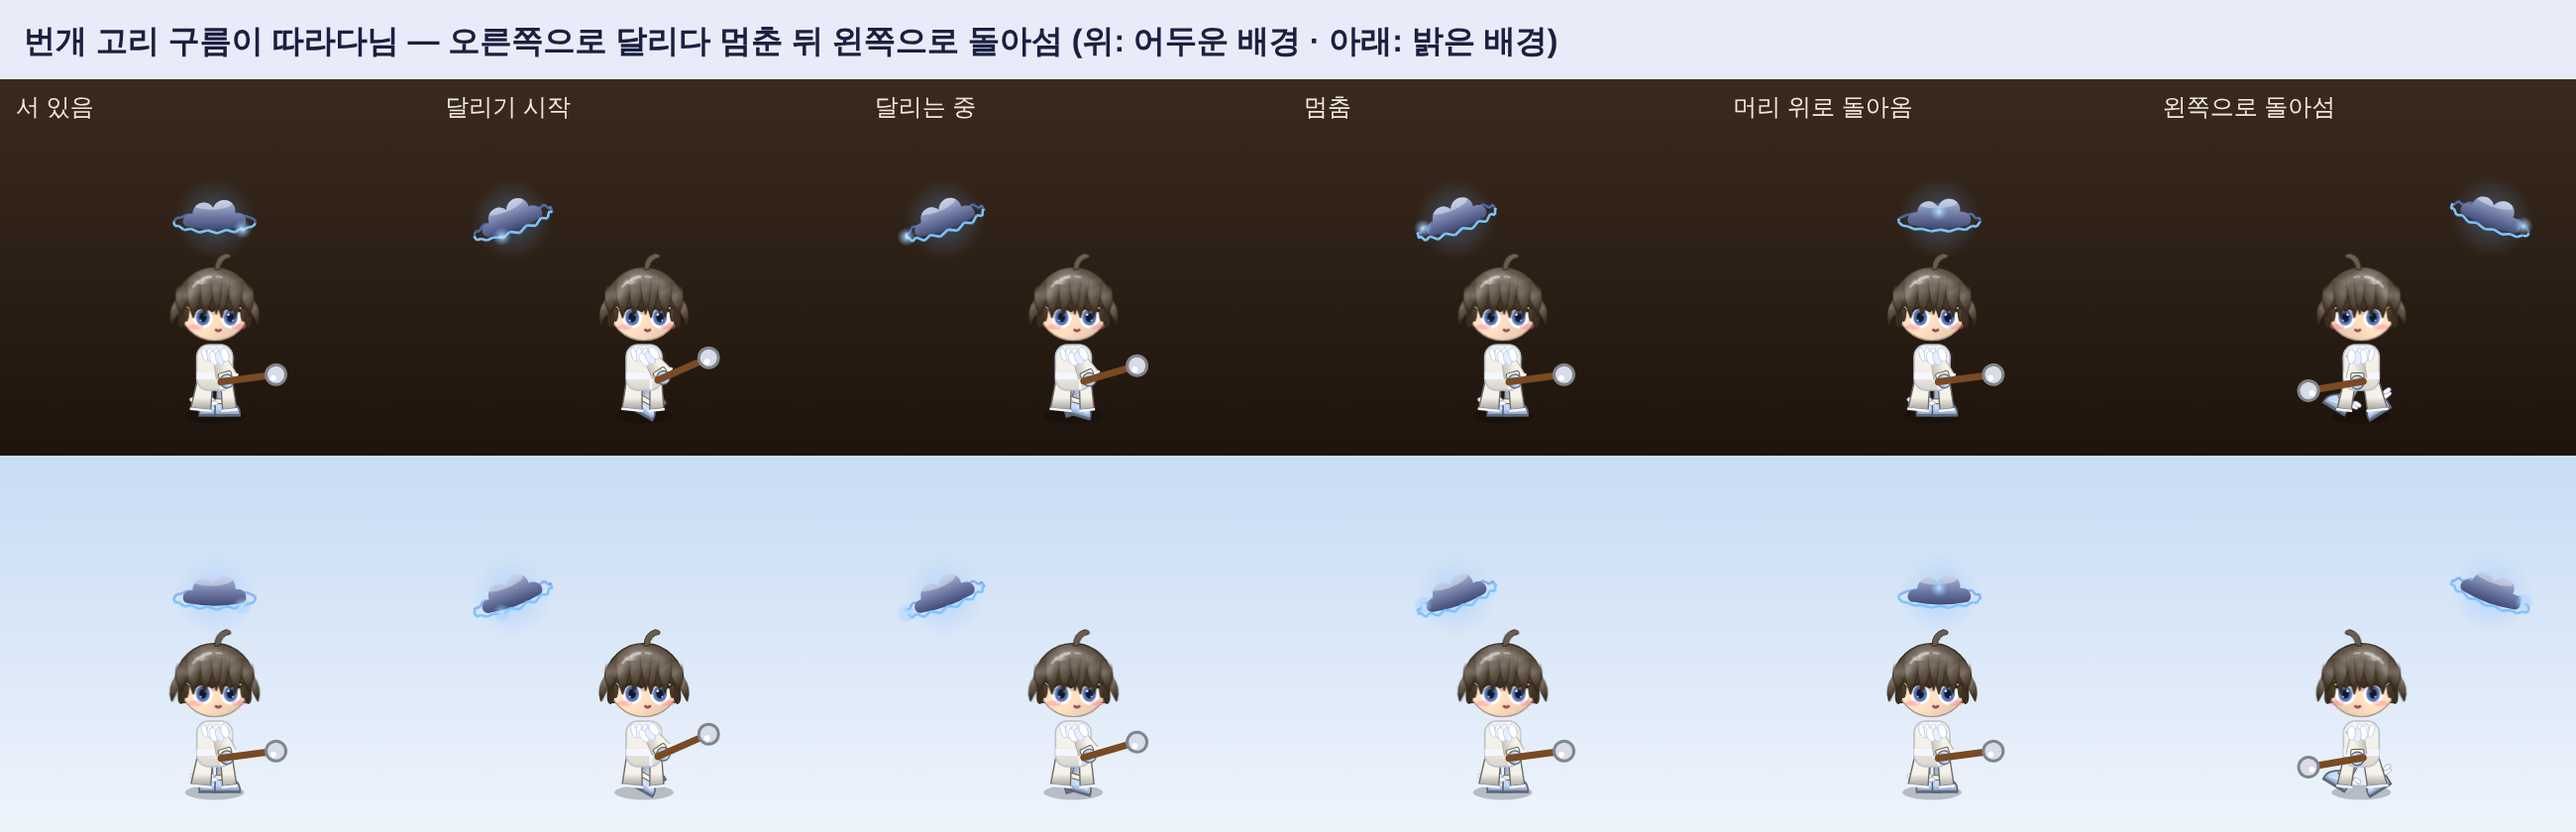
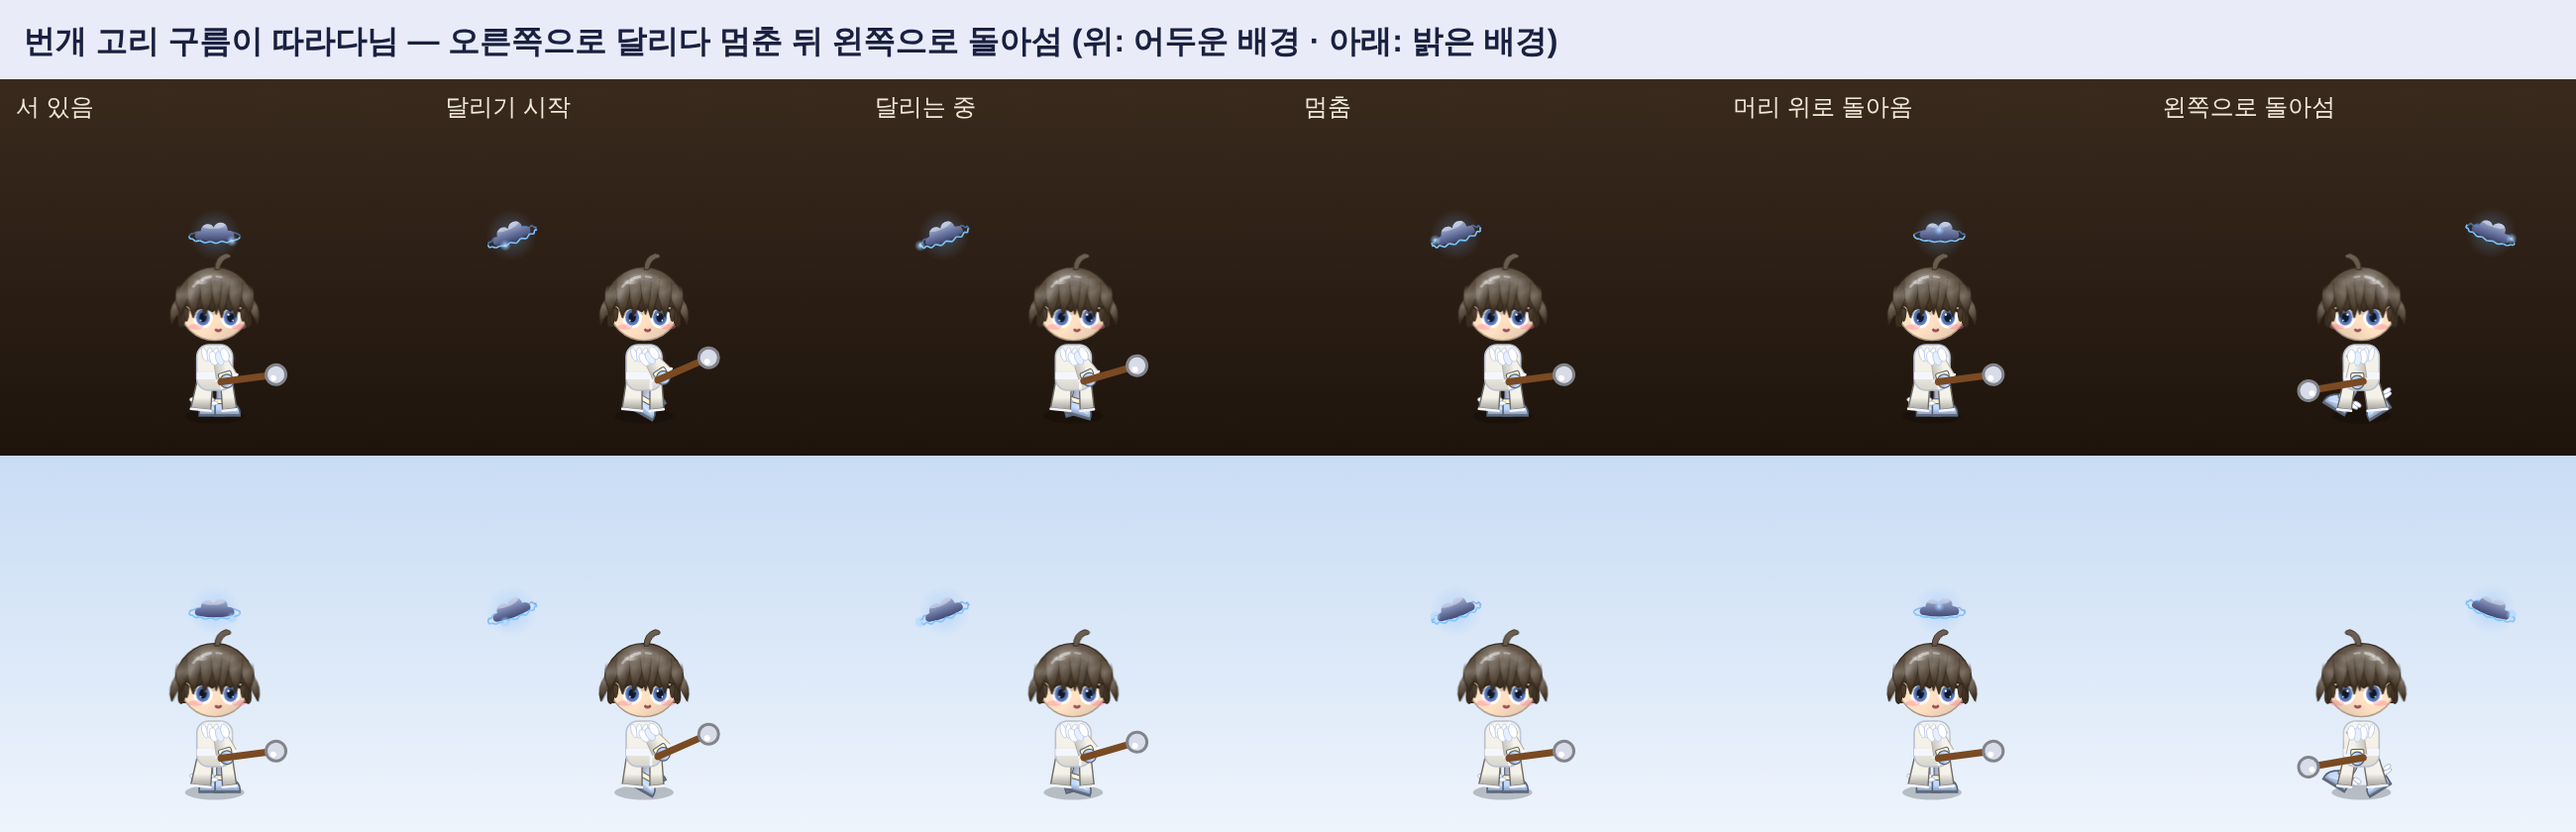
시안: 현자 번개 고리 구름 0.5배
Claude-Session: https://claude.ai/code/session_012Uzgs6nJ8nnZGaogUABhrm

diff --git a/hannyomi/docs/drafts/design/aura_A/one/m4b4.js b/hannyomi/docs/drafts/design/aura_A/one/m4b4.js
@@ -3,8 +3,8 @@
   const N = G.AuraM4b3, PI = Math.PI;
   G.AuraFollow = {
     // 게임에서 쓸 따라오기: p.__cl = {x, y, vx} 를 매 프레임 스프링으로 머리 위 목표점에 끌어당김
-    step(p, dt) { const tx = p.x, ty = p.y - 100; const s = p.__cl || (p.__cl = { x: tx, y: ty, vx: 0, vy: 0 });
+    step(p, dt) { const tx = p.x, ty = p.y - 92; const s = p.__cl || (p.__cl = { x: tx, y: ty, vx: 0, vy: 0 });
       const k = 40, d = 9; s.vx += ((tx - s.x) * k - s.vx * d) * dt; s.vy += ((ty - s.y) * k - s.vy * d) * dt; s.x += s.vx * dt; s.y += s.vy * dt; return s; },
-    draw(c, p, t, s) { const tilt = Math.max(-0.35, Math.min(0.35, -s.vx / 600)); c.save(); c.translate(s.x, s.y); c.rotate(tilt); c.scale(0.8, 0.8); N.na(c, { x: 0, y: 100, dir: 1 }, t); c.restore(); },
+    draw(c, p, t, s) { const tilt = Math.max(-0.35, Math.min(0.35, -s.vx / 600)); c.save(); c.translate(s.x, s.y); c.rotate(tilt); c.scale(0.5, 0.5); N.na(c, { x: 0, y: 100, dir: 1 }, t); c.restore(); },
   };
 })();

diff --git a/hannyomi/docs/drafts/design/aura_A/README.md b/hannyomi/docs/drafts/design/aura_A/README.md
@@ -44,3 +44,4 @@
 - 5) 현자 3차 (m4b3.js, G.AuraM4b3): 구름 + 파란 번개 새 4안 — 가 번개 왕관 구름 · 나 번개 고리 구름 · 다 번개 구름 문장 · 라 두 구름 사이 번개 (m4b3_zoom.png)
 - 5) 현자: 나 번개 고리 구름 + 따라다니기 (m4b4.js G.AuraFollow — 스프링 k40 · d9, 속도만큼 기울기 최대 0.35) — 6장면 m4b4.png (follow.js)
 - 5) 현자: 구름 크기 0.8배로 줄임
+- 5) 현자: 구름 크기 0.5배 (처음 크기 기준), 머리에 맞춰 높이 y-92
